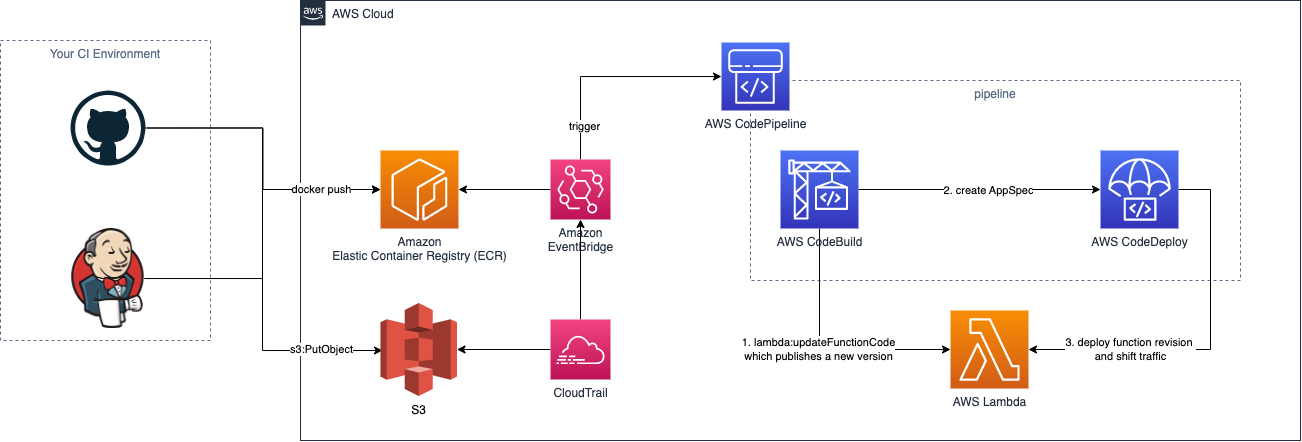
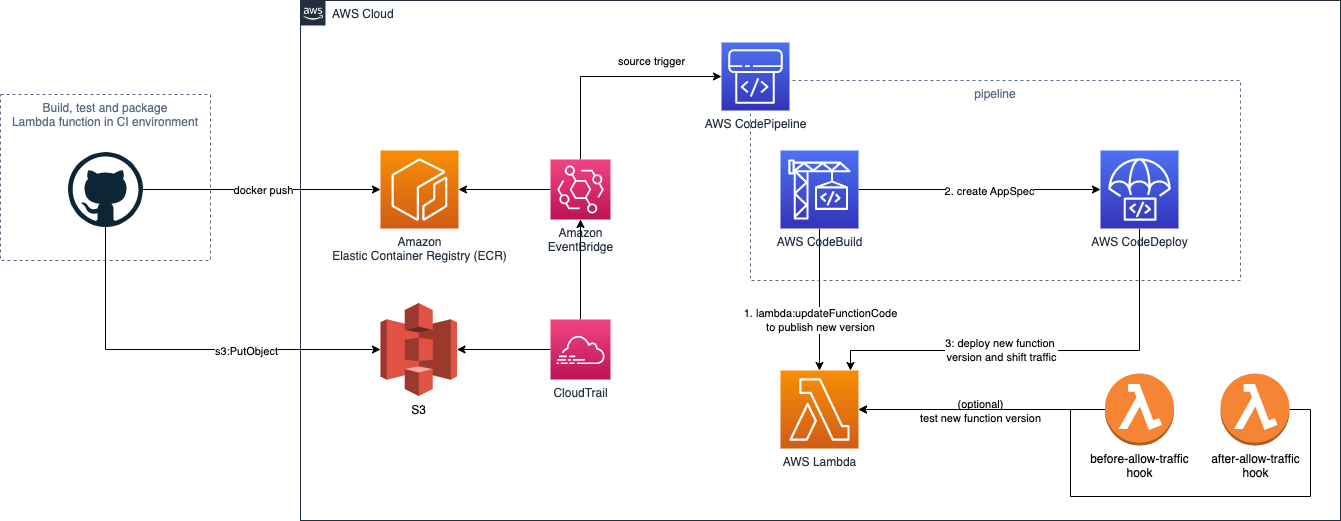
feat: support for CloudWatch alarms

diff --git a/modules/deployment/README.md b/modules/deployment/README.md
@@ -20,6 +20,7 @@ to update the function code and CodeDeploy to deploy the new function version.
 - SNS topic for [AWS CodeStar Notifications](https://docs.aws.amazon.com/dtconsole/latest/userguide/welcome.html) of CodePipeline events, or bring your own SNS topic
 - `BeforeAllowTraffic` and `AfterAllowTraffic` [hooks](https://docs.aws.amazon.com/codedeploy/latest/userguide/reference-appspec-file-structure-hooks.html#appspec-hooks-lambda) CodeDeploy
 - AWS predefined and custom [deployment configurations](https://docs.aws.amazon.com/codedeploy/latest/userguide/deployment-configurations.html) for CodeDeploy
+- automatic [rollbacks](https://docs.aws.amazon.com/codedeploy/latest/userguide/deployments-rollback-and-redeploy.html#deployments-rollback-and-redeploy-automatic-rollbacks) and support of [CloudWatch alarms](https://docs.aws.amazon.com/codedeploy/latest/userguide/deployment-groups-configure-advanced-options.html) to stop deployments
 
 ## How do I use this module?
 
@@ -251,6 +252,55 @@ resource "aws_iam_role_policy_attachment" "traffic_hook" {
 }
 ```
 
+### with rollbacks based on CloudWatch alarms
+
+see [complete example](../../examples/deployment/complete) for details:
+
+```terraform
+// see above
+
+resource "aws_cloudwatch_metric_alarm" "error_rate" {
+  alarm_description   = "${module.lambda.function_name} has a high error rate"
+  alarm_name          = "${module.lambda.function_name}-error-rate"
+  comparison_operator = "GreaterThanOrEqualToThreshold"
+  datapoints_to_alarm = 1
+  evaluation_periods  = 1
+  threshold           = 5
+  treat_missing_data  = "notBreaching"
+
+  // calculate error rate here
+}
+
+module "deployment" {
+  source = "moritzzimmer/lambda/aws//modules/deployment"
+
+  alias_name                                                      = aws_lambda_alias.this.name
+  create_codepipeline_cloudtrail                                  = true
+  codedeploy_deployment_group_alarm_configuration_enabled         = true
+  codedeploy_deployment_group_alarm_configuration_alarms          = [aws_cloudwatch_metric_alarm.error_rate.id]
+  codedeploy_deployment_group_auto_rollback_configuration_enabled = true
+  codedeploy_deployment_group_auto_rollback_configuration_events  = ["DEPLOYMENT_FAILURE", "DEPLOYMENT_STOP_ON_ALARM"]
+  codepipeline_artifact_store_bucket                              = aws_s3_bucket.source.bucket
+  deployment_config_name                                          = aws_codedeploy_deployment_config.canary.id
+  function_name                                                   = local.function_name
+  s3_bucket                                                       = aws_s3_bucket.source.bucket
+  s3_key                                                          = local.s3_key
+}
+
+resource "aws_codedeploy_deployment_config" "canary" {
+  deployment_config_name = "custom-lambda-canary-deployment-config"
+  compute_platform       = "Lambda"
+
+  traffic_routing_config {
+    type = "TimeBasedCanary"
+
+    time_based_canary {
+      interval   = 5
+      percentage = 50
+    }
+  }
+}
+```
 ### Examples
 
 - [complete](../../examples/deployment/complete)
@@ -320,6 +370,9 @@ No modules.
 | <a name="input_codebuild_role_arn"></a> [codebuild\_role\_arn](#input\_codebuild\_role\_arn) | ARN of an existing IAM role for CodeBuild execution. If empty, a dedicated role for your Lambda function with minimal required permissions will be created. | `string` | `""` | no |
 | <a name="input_codedeploy_appspec_hooks_after_allow_traffic_arn"></a> [codedeploy\_appspec\_hooks\_after\_allow\_traffic\_arn](#input\_codedeploy\_appspec\_hooks\_after\_allow\_traffic\_arn) | Lambda function ARN to run after traffic is shifted to the deployed Lambda function version. | `string` | `""` | no |
 | <a name="input_codedeploy_appspec_hooks_before_allow_traffic_arn"></a> [codedeploy\_appspec\_hooks\_before\_allow\_traffic\_arn](#input\_codedeploy\_appspec\_hooks\_before\_allow\_traffic\_arn) | Lambda function ARN to run before traffic is shifted to the deployed Lambda function version. | `string` | `""` | no |
+| <a name="input_codedeploy_deployment_group_alarm_configuration_alarms"></a> [codedeploy\_deployment\_group\_alarm\_configuration\_alarms](#input\_codedeploy\_deployment\_group\_alarm\_configuration\_alarms) | A list of alarms configured for the deployment group. A maximum of 10 alarms can be added to a deployment group. | `list(string)` | `[]` | no |
+| <a name="input_codedeploy_deployment_group_alarm_configuration_enabled"></a> [codedeploy\_deployment\_group\_alarm\_configuration\_enabled](#input\_codedeploy\_deployment\_group\_alarm\_configuration\_enabled) | Indicates whether the alarm configuration is enabled. This option is useful when you want to temporarily deactivate alarm monitoring for a deployment group without having to add the same alarms again later. | `bool` | `false` | no |
+| <a name="input_codedeploy_deployment_group_alarm_configuration_ignore_poll_alarm_failure"></a> [codedeploy\_deployment\_group\_alarm\_configuration\_ignore\_poll\_alarm\_failure](#input\_codedeploy\_deployment\_group\_alarm\_configuration\_ignore\_poll\_alarm\_failure) | Indicates whether a deployment should continue if information about the current state of alarms cannot be retrieved from CloudWatch. | `bool` | `false` | no |
 | <a name="input_codedeploy_deployment_group_auto_rollback_configuration_enabled"></a> [codedeploy\_deployment\_group\_auto\_rollback\_configuration\_enabled](#input\_codedeploy\_deployment\_group\_auto\_rollback\_configuration\_enabled) | Indicates whether a defined automatic rollback configuration is currently enabled for this deployment group. If you enable automatic rollback, you must specify at least one event type. | `bool` | `false` | no |
 | <a name="input_codedeploy_deployment_group_auto_rollback_configuration_events"></a> [codedeploy\_deployment\_group\_auto\_rollback\_configuration\_events](#input\_codedeploy\_deployment\_group\_auto\_rollback\_configuration\_events) | The event type or types that trigger a rollback. Supported types are `DEPLOYMENT_FAILURE` and `DEPLOYMENT_STOP_ON_ALARM` | `list(string)` | `[]` | no |
 | <a name="input_codepipeline_artifact_store_bucket"></a> [codepipeline\_artifact\_store\_bucket](#input\_codepipeline\_artifact\_store\_bucket) | Name of an existing S3 bucket used by AWS CodePipeline to store pipeline artifacts. Use the same bucket name as in `s3_bucket` to store deployment packages and pipeline artifacts in one bucket for `package_type=Zip` functions. If empty, a dedicated S3 bucket for your Lambda function will be created. | `string` | `""` | no |
@@ -342,5 +395,13 @@ No modules.
 
 | Name | Description |
 |------|-------------|
+| <a name="output_codebuild_project_arn"></a> [codebuild\_project\_arn](#output\_codebuild\_project\_arn) | The Amazon Resource Name (ARN) of the CodeBuild project. |
+| <a name="output_codebuild_project_id"></a> [codebuild\_project\_id](#output\_codebuild\_project\_id) | The Id of the CodeBuild project. |
+| <a name="output_codedeploy_app_arn"></a> [codedeploy\_app\_arn](#output\_codedeploy\_app\_arn) | The Amazon Resource Name (ARN) of the CodeDeploy application. |
+| <a name="output_codedeploy_app_name"></a> [codedeploy\_app\_name](#output\_codedeploy\_app\_name) | The name of the CodeDeploy application. |
 | <a name="output_codedeploy_deployment_group_arn"></a> [codedeploy\_deployment\_group\_arn](#output\_codedeploy\_deployment\_group\_arn) | The Amazon Resource Name (ARN) of the CodeDeploy deployment group. |
+| <a name="output_codedeploy_deployment_group_deployment_group_id"></a> [codedeploy\_deployment\_group\_deployment\_group\_id](#output\_codedeploy\_deployment\_group\_deployment\_group\_id) | The ID of the CodeDeploy deployment group. |
+| <a name="output_codedeploy_deployment_group_id"></a> [codedeploy\_deployment\_group\_id](#output\_codedeploy\_deployment\_group\_id) | Application name and deployment group name. |
+| <a name="output_codepipeline_arn"></a> [codepipeline\_arn](#output\_codepipeline\_arn) | The Amazon Resource Name (ARN) of the CodePipeline. |
+| <a name="output_codepipeline_id"></a> [codepipeline\_id](#output\_codepipeline\_id) | The ID of the CodePipeline. |
 <!-- END OF PRE-COMMIT-TERRAFORM DOCS HOOK -->

diff --git a/examples/deployment/complete/README.md b/examples/deployment/complete/README.md
@@ -1,8 +1,11 @@
 # Complete example of blue/green deployments of Lambda functions
 
-Creates a S3 packaged AWS Lambda function deployed using AWS CodePipeline and CodeDeploy using a
-custom [deployment configuration](https://docs.aws.amazon.com/codedeploy/latest/userguide/deployment-configurations.html) to shift traffic to the new version and executes traffic [hooks](https://docs.aws.amazon.com/codedeploy/latest/userguide/reference-appspec-file-structure-hooks.html#reference-appspec-file-structure-hooks-section-structure-ecs-sample-function)
-before and after traffic is allowed to the deployed Lambda version.
+Creates a S3 packaged AWS Lambda function deployed using AWS CodePipeline, CodeBuild and CodeDeploy showcasing all
+available features:
+
+* custom [deployment configurations](https://docs.aws.amazon.com/codedeploy/latest/userguide/deployment-configurations.html) to shift traffic to the new version and executes traffic [hooks](https://docs.aws.amazon.com/codedeploy/latest/userguide/reference-appspec-file-structure-hooks.html#reference-appspec-file-structure-hooks-section-structure-ecs-sample-function)
+* before and after traffic hooks
+* rollback and CloudWatch alarms configuration
 
 ## usage
 
@@ -50,7 +53,8 @@ aws s3api put-object --bucket example-ci-{account_id}-{region} --key with-s3-dep
 
 | Name | Type |
 |------|------|
-| [aws_codedeploy_deployment_config.custom](https://registry.terraform.io/providers/hashicorp/aws/latest/docs/resources/codedeploy_deployment_config) | resource |
+| [aws_cloudwatch_metric_alarm.error_rate](https://registry.terraform.io/providers/hashicorp/aws/latest/docs/resources/cloudwatch_metric_alarm) | resource |
+| [aws_codedeploy_deployment_config.canary](https://registry.terraform.io/providers/hashicorp/aws/latest/docs/resources/codedeploy_deployment_config) | resource |
 | [aws_iam_policy.traffic_hook](https://registry.terraform.io/providers/hashicorp/aws/latest/docs/resources/iam_policy) | resource |
 | [aws_iam_role_policy_attachment.traffic_hook](https://registry.terraform.io/providers/hashicorp/aws/latest/docs/resources/iam_role_policy_attachment) | resource |
 | [aws_lambda_alias.this](https://registry.terraform.io/providers/hashicorp/aws/latest/docs/resources/lambda_alias) | resource |
